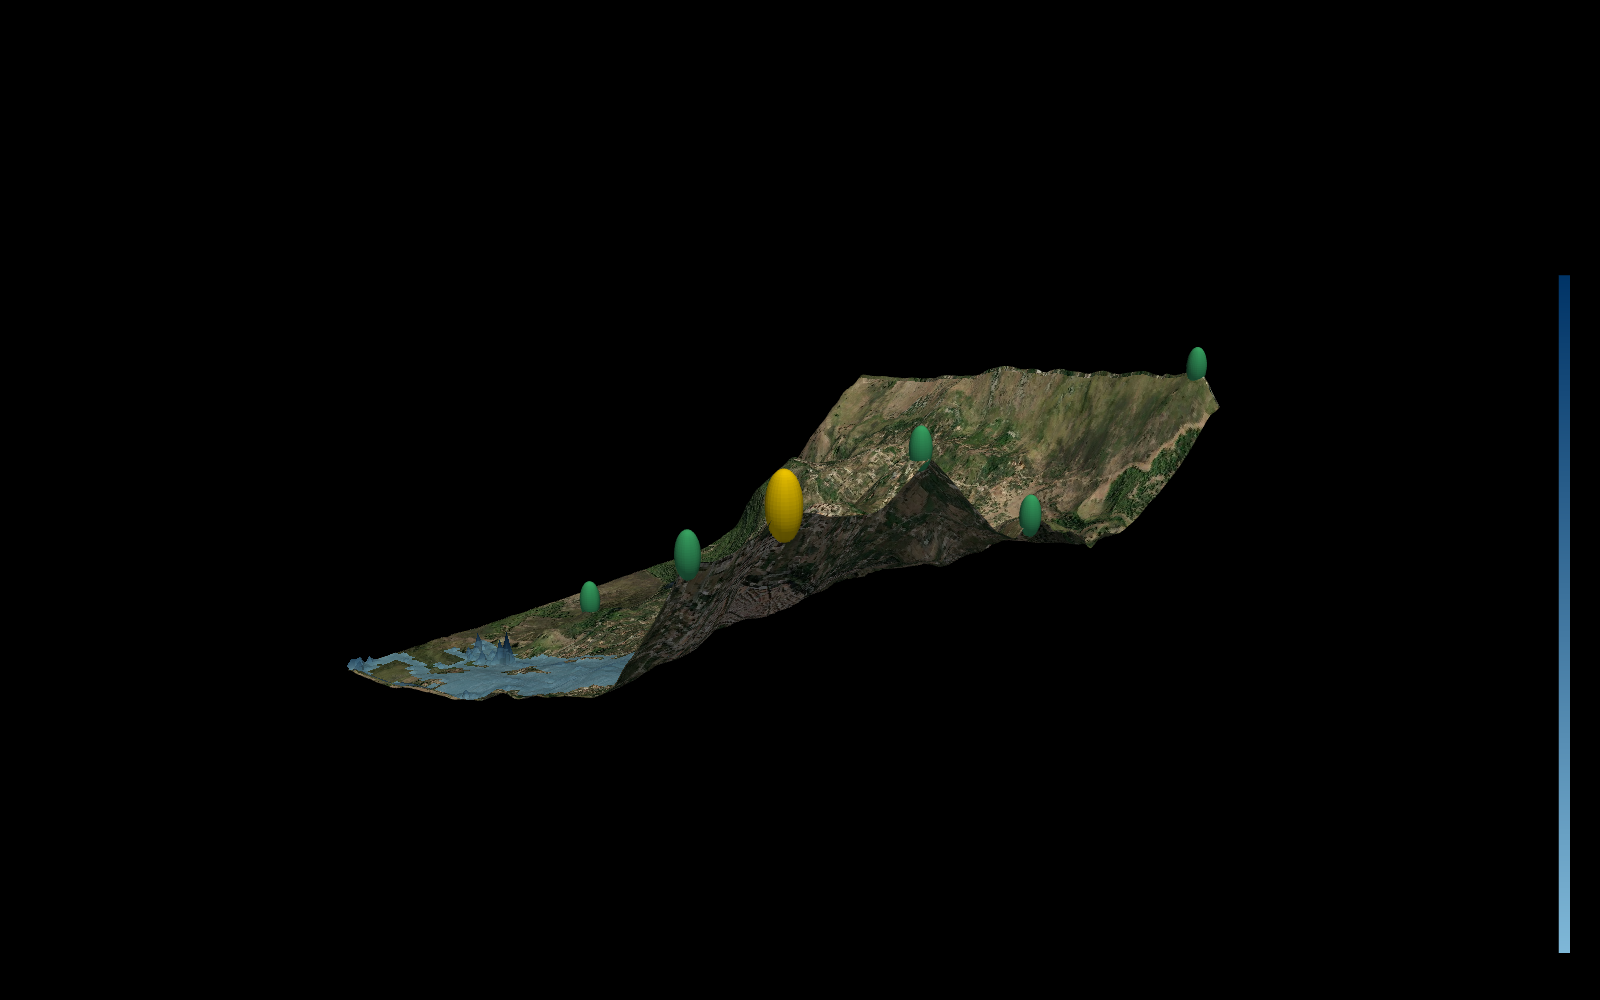
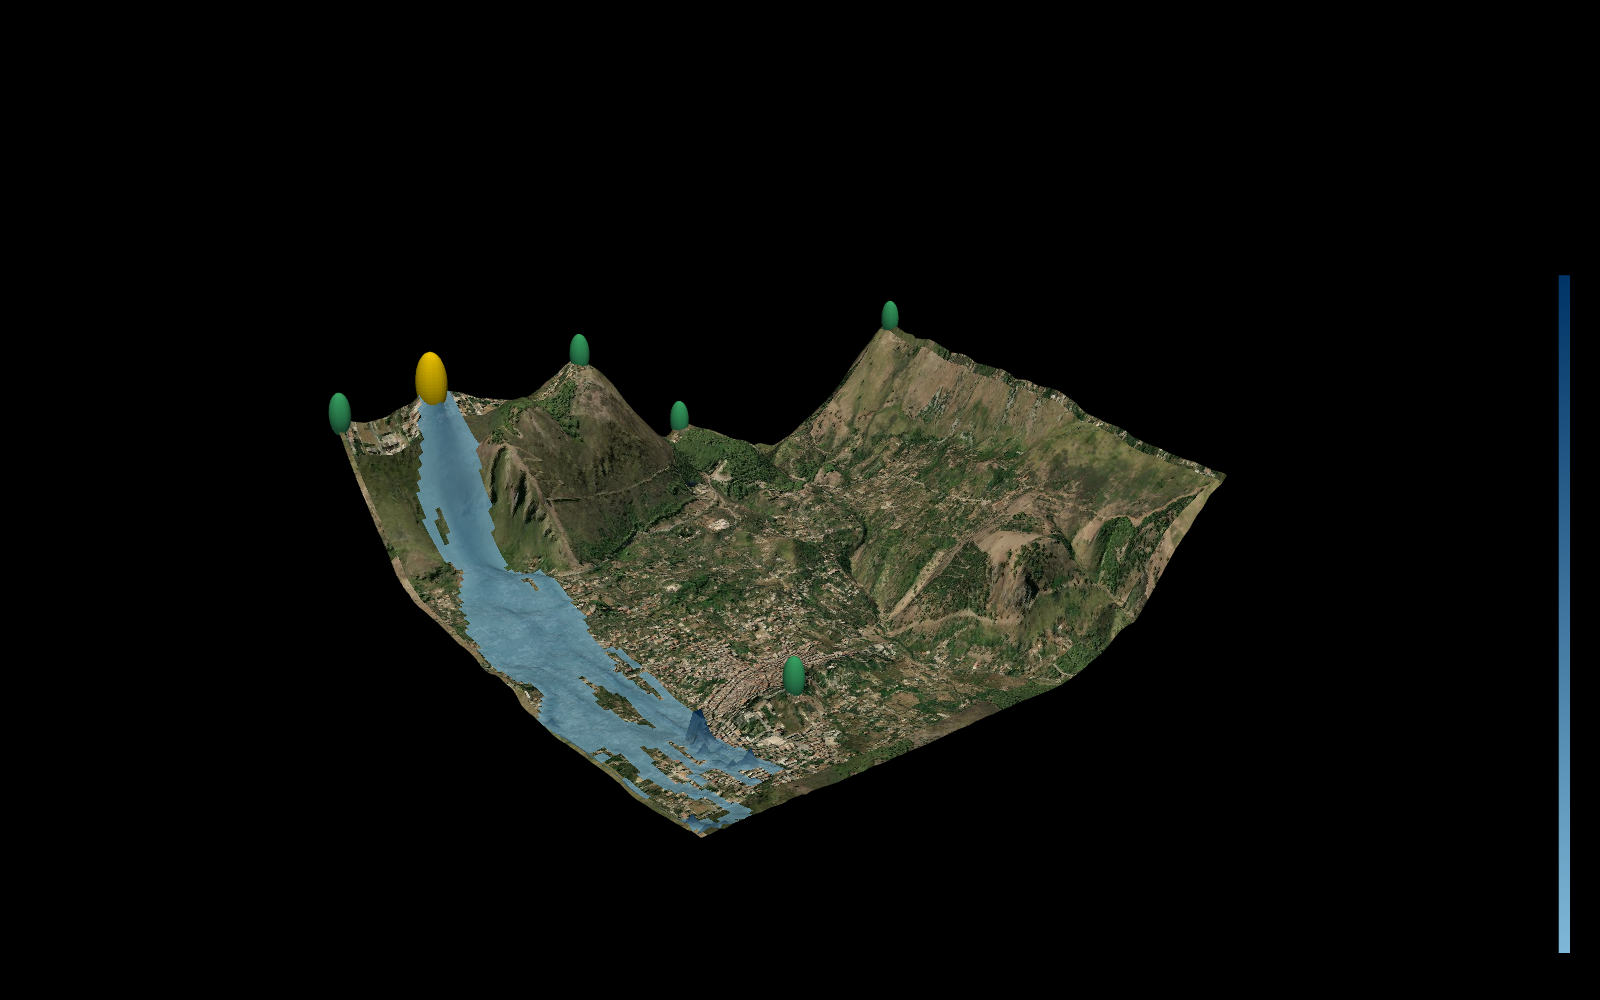
Fix north-south mirroring in 3D views and use the 45/16 view
The 3D views used the raster row as y, which puts north (row 0) at y = 0
and mirrors the scene. No rotation can undo a mirror.
- 05 / 09 (Plotly): y axis reversed, so north is up. Camera from the
  north-east: CAMERA_START_DEGREES = 45, CAMERA_ELEVATION_DEGREES = 16,
  radius 1.4 -> 1.7 so the front corner is not cut off.
- 12 (matplotlib): row axis inverted again, view_init(elev=16, azim=45).
- 10 (PyVista): y = (n_rows - 1 - row) in metres. The satellite texture
  was also upside down against the elevations; now the valley on the
  image matches the water path. Camera from the same constants.
- Regenerated 05, 09, 10 and 12 in docs/assets.

Changed region(s): [[0.1875, 0.31, 0.7812, 0.837]]

diff --git a/scripts/visualize_terrain_satellite_3d.py b/scripts/visualize_terrain_satellite_3d.py
@@ -23,6 +23,7 @@ from app.hydrology.candidate_detection import detect_candidates
 from app.hydrology.cellular_automata import simulate_flood_with_snapshots
 from app.hydrology.priority_flood import fill_depressions
 from app.ingestion.public_dem import load_dem_from_geotiff
+from scripts.export_flood_animation_3d import CAMERA_ELEVATION_DEGREES, CAMERA_START_DEGREES
 
 DEM_PATH = "data/dem/copernicus_glo30_test.tif"
 OUTPUT_DIR = Path("output/maps")
@@ -102,9 +103,12 @@ def main() -> None:
     # non indici di griglia grezzi (0..n_cols) — altrimenti PyVista tratta
     # 1 "cella" e 1 "metro di quota" come la stessa unità, deformando
     # verticalmente tutta la scena (e con essa la texture).
+    # Nord in alto: la riga 0 del raster (nord) va a y massimo. Con y = riga la
+    # scena risultava specchiata nord-sud, e la texture (che PyVista mette con
+    # la riga 0 dell'immagine a y massimo) finiva capovolta rispetto alle quote.
     col_idx, row_idx = np.meshgrid(np.arange(n_cols), np.arange(n_rows))
     x_m = col_idx.astype(float) * dem.cell_size_m
-    y_m = row_idx.astype(float) * dem.cell_size_m
+    y_m = (n_rows - 1 - row_idx).astype(float) * dem.cell_size_m
 
     terrain_grid = pv.StructuredGrid(x_m, y_m, elevation)
     terrain_grid.texture_map_to_plane(inplace=True)
@@ -144,13 +148,19 @@ def main() -> None:
     for c in candidates:
         is_winner = c.id == winner_id
         radius_m = (3.0 if is_winner else 2.0) * dem.cell_size_m
-        center = (c.col * dem.cell_size_m, c.row * dem.cell_size_m, c.elevation + elevation.max() * 0.02)
+        center = (c.col * dem.cell_size_m, (n_rows - 1 - c.row) * dem.cell_size_m, c.elevation + elevation.max() * 0.02)
         sphere = pv.Sphere(radius=radius_m, center=center)
         plotter.add_mesh(sphere, color="gold" if is_winner else "mediumseagreen")
 
     plotter.add_text(f"Vincitore: {winner_id} (acqua esagerata {exaggeration:.1f}x, rilievo esagerato {TERRAIN_Z_EXAGGERATION:.1f}x)", font_size=10)
     plotter.set_scale(zscale=TERRAIN_Z_EXAGGERATION)
-    plotter.camera_position = "iso"
+    # Stessa vista delle altre 3D (scripts/export_flood_animation_3d.py): azimut
+    # antiorario da est, elevazione sull'orizzonte. 45°/16° = da nord-est.
+    az, el = np.radians(CAMERA_START_DEGREES), np.radians(CAMERA_ELEVATION_DEGREES)
+    focal = np.array(plotter.center)
+    direction = np.array([np.cos(el) * np.cos(az), np.cos(el) * np.sin(az), np.sin(el)])
+    plotter.camera_position = [tuple(focal + direction), tuple(focal), (0.0, 0.0, 1.0)]
+    plotter.reset_camera()  # tiene la direzione, adatta solo la distanza
     plotter.set_background("black")
 
     out_path = OUTPUT_DIR / timestamped_filename("terrain_satellite_3d", "html")

diff --git a/scripts/export_flood_animation_3d.py b/scripts/export_flood_animation_3d.py
@@ -45,9 +45,10 @@ _TARGET_VISUAL_FRACTION = 0.12
 # gradi nell'arco dell'intero video — cosi' ogni punto di vista viene
 # mostrato automaticamente, senza dover indovinare l'angolo "giusto".
 ROTATE_DEGREES_TOTAL = 0      # 360 = giro completo; 0 = camera fissa (comportamento precedente)
-CAMERA_RADIUS = 1.4             # distanza della camera dal centro (più alto = più zoom out)
-CAMERA_START_DEGREES = 50       # angolo di partenza (230 - 180: l'acqua non resta dietro la cresta)
-CAMERA_ELEVATION = 1.1          # quota della camera (più alto = vista più dall'alto)
+CAMERA_RADIUS = 1.7             # distanza della camera dal centro (più alto = più zoom out)
+CAMERA_START_DEGREES = 45       # azimut iniziale, antiorario da est su assi nord-in-alto: 45 = da nord-est
+CAMERA_ELEVATION_DEGREES = 16    # elevazione della camera sull'orizzonte
+CAMERA_ELEVATION = CAMERA_RADIUS * np.tan(np.radians(CAMERA_ELEVATION_DEGREES))
 
 # --- Colori --------------------------------------------------------------
 # Terreno: qualunque colorscale Plotly valida. Alternative interessanti:
@@ -117,7 +118,9 @@ def _render_3d_frame_png(
         title=title_text,
         template="plotly_dark",
         scene=dict(
-            xaxis_title="colonna", yaxis_title="riga", zaxis_title="quota (m)",
+            xaxis_title="colonna", zaxis_title="quota (m)",
+            # riga 0 = nord: asse invertito per avere il nord in alto (y = riga specchierebbe la scena)
+            yaxis=dict(title="riga", autorange="reversed"),
             aspectratio=dict(x=1, y=n_rows / n_cols, z=0.5),
             camera=camera,
         ),

diff --git a/app/viz/raster_render.py b/app/viz/raster_render.py
@@ -149,10 +149,11 @@ def render_flow_paths_3d(dem: DEMGrid, output_path: str, start_spacing_cells: in
     ax.plot_surface(cols, rows, elevation, cmap="terrain", linewidth=0, alpha=0.8)
     ax.add_collection3d(Line3DCollection(segments, colors="blue", linewidths=1.2, alpha=0.8),
                         autolim=False)
-    # Stessa vista della 3D animata (scripts/export_flood_animation_3d.py): camera a 50°
-    # attorno all'asse verticale, elevazione atan(1.1 / 1.4), stesse proporzioni.
+    # Stessa vista della 3D animata (scripts/export_flood_animation_3d.py): nord in alto
+    # (riga 0 = nord, asse invertito), camera da nord-est (azimut 45°), elevazione 16°.
     ax.set_box_aspect((1, elevation.shape[0] / elevation.shape[1], 0.5))
-    ax.view_init(elev=np.degrees(np.arctan2(1.1, 1.4)), azim=50)
+    ax.invert_yaxis()
+    ax.view_init(elev=16, azim=45)
     ax.set_title(f"Percorsi di deflusso D8 ({len(segments)} partenze)")
     ax.set_xlabel("colonna")
     ax.set_ylabel("riga")

diff --git a/scripts/visualize_flood_3d.py b/scripts/visualize_flood_3d.py
@@ -155,7 +155,7 @@ def main() -> None:
         template="plotly_dark",
         scene=dict(
             xaxis_title="colonna",
-            yaxis_title="riga",
+            yaxis=dict(title="riga", autorange="reversed"),  # riga 0 = nord: nord in alto, non specchiato
             zaxis_title="quota (m)",
             aspectratio=dict(x=1, y=n_rows / n_cols, z=0.5),
             # stessa camera della vista 3D animata (05): il pendio si vede di fronte
